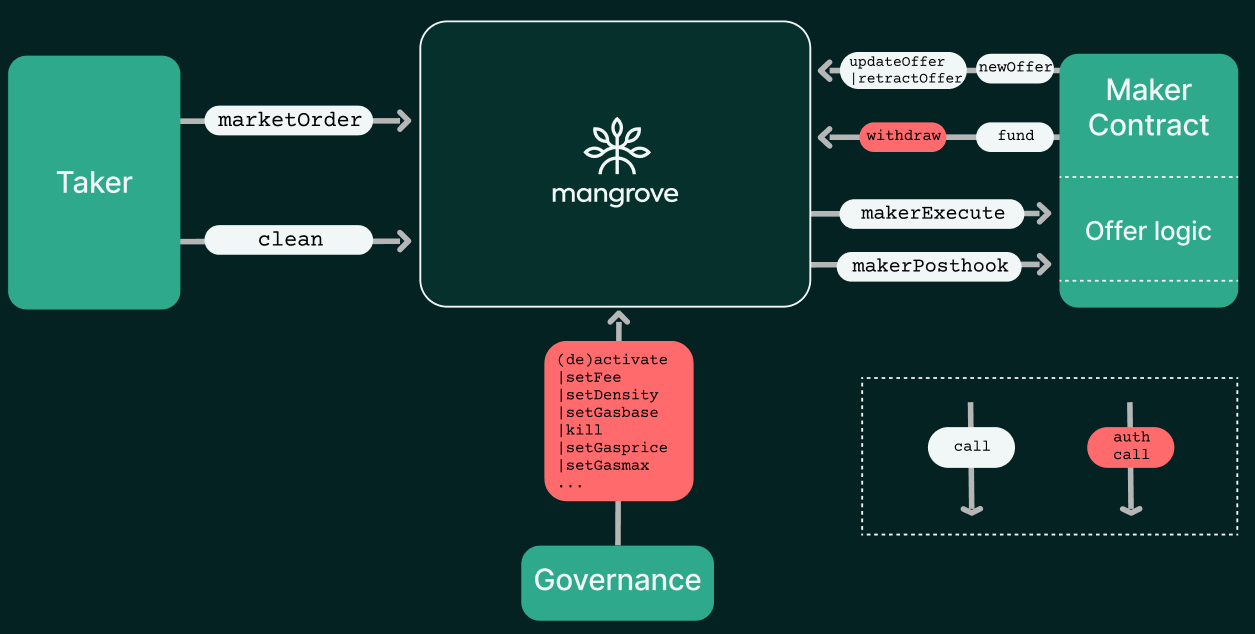
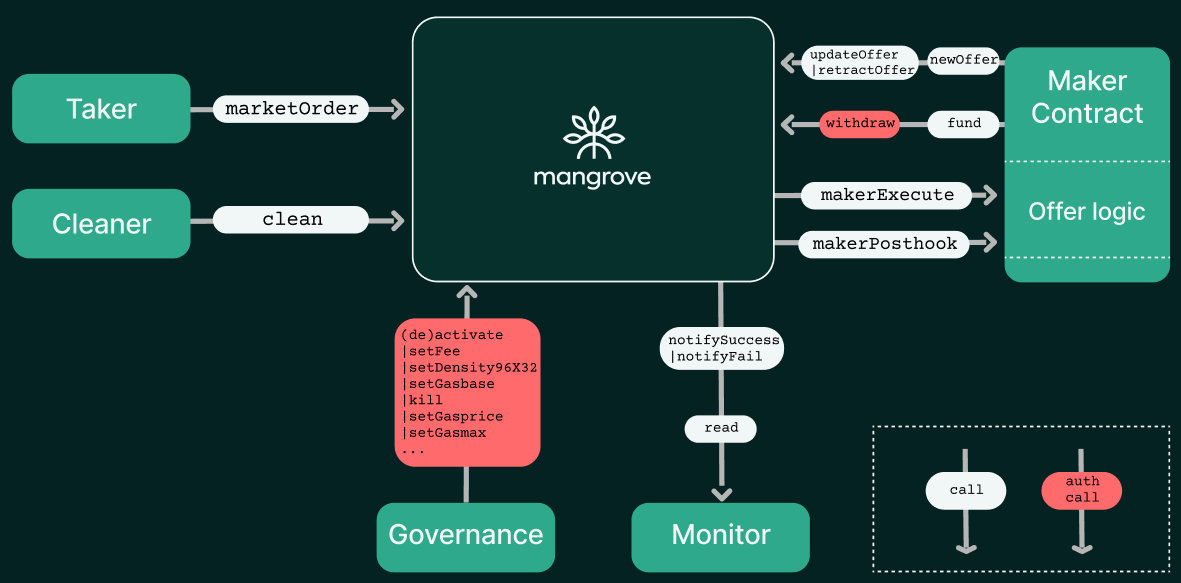
edits of Overview, Offer List and View on Offers

diff --git a/docs/developers/contracts/technical-references/taking-and-making-offers/views-on-offers.md b/docs/developers/contracts/technical-references/taking-and-making-offers/views-on-offers.md
@@ -9,11 +9,11 @@ Mangrove provides a number of getter functions providing views on offers and %%o
 
 ## Public getters
 
-### `best(address outbound, address inbound)`
+### `best(address outbound, address inbound, uint tickSpacing)`
 
 :::info
 
-Returns the offer identifier that occupies the best %%rank|offer-rank%% in the `(outbound, inbound)` %%offer list|offer-list%%.
+Returns the `offerId` of the best offer in the %%offer list|offer-list%%.
 
 :::
 
@@ -30,8 +30,9 @@ import "src/IMangrove.sol";
 IMangrove mgv;
 address outbound_tkn;
 address inbound_tkn;
+uint tickSpacing;
 
-uint best = mgv.best(outbound_tkn, inbound_tkn); 
+uint best = mgv.best(outbound_tkn, inbound_tkn, tickSpacing); 
 ```
 
 </TabItem>
@@ -42,6 +43,7 @@ const { ethers } = require("ethers");
 // context
 let outboundTkn; // address of outbound token ERC20
 let inboundTkn; // address of inbound token ERC20
+let tickSpacing; // number of ticks that should be jumped between available price points
 let MGV_address;
 let MGV_abi; // Mangrove contract's abi
 
@@ -52,13 +54,13 @@ const mgv = new ethers.Contract(
     );
 
 // getting best offer of the (outTkn,inbTk) market
-const best = await mgv.best(outboundTkn, inboundTkn); 
+const best = await mgv.best(outboundTkn, inboundTkn, tickSpacing); 
 ```
 
 </TabItem>
 </Tabs>
 
-### `offers(address, address)` and `offerDetails(address, address, uint)`
+### `offers(address, address, uint, uint )` and `offerDetails(address, address, uint, uint)`
 
 :::info
 
@@ -77,18 +79,19 @@ import {MgvStructs} "src/MgvLib.sol";
 address MGV;
 address outTkn; 
 address inbTkn;
+uint tickSpacing;
 uint offerId; // the id of the offer one wishes to get the data of
 
 // if one wishes to get the totally unpacked data (gas costly!):
 (MgvStructs.OfferUnpacked memory offer, MgvStructs.OfferDetailUnpacked memory offerDetail) = Mangrove(MGV)
-.offerInfo(outTkn,inbTkn,offerId);
+.offerInfo(outTkn, inbTkn, tickSpacing, offerId);
 
 // if one wishes to access a few particular fields, say `wants`, `gives` and `gasreq` parameters of the offer: 
-// 1. getting packed (outTkn, inbTkn) Offer List data
+// 1. getting packed (outTkn, inbTkn, tickSpacing) Offer List data
 MgvStructs.OfferPacked memory offer32 = Mangrove(MGV)
-.offers(outTkn, inbTkn, offerId);
+.offers(outTkn, inbTkn, tickSpacing, offerId);
 MgvStructs.OfferDetailPacked memory offerDetail32 = Mangrove(MGV)
-.offerDetails(outTkn, inbTkn, offerId);
+.offerDetails(outTkn, inbTkn, tickSpacing, offerId);
 
 // for all fields f of OfferUnpacked
 // offer.f == offer32.f()
@@ -105,6 +108,7 @@ const { ethers } = require("ethers");
 // context
 let outTkn; // address of outbound token ERC20
 let inbTkn; // address of inbound token ERC20
+let tickSpacing; // number of ticks that should be jumped between available price points
 let MGV_address; // address of Mangrove
 let MGV_abi; // Mangrove contract's abi
 
@@ -115,7 +119,7 @@ const Mangrove = new ethers.Contract(
     );
 
 // getting offer data in an abi compatible format
-const [offer, offerDetail] = await Mangrove.offerInfo(outTkn,inbTkn,offerId);
+const [offer, offerDetail] = await Mangrove.offerInfo(outTkn, inbTkn, tickSpacing, offerId);
 
 // now one can access any field, say wants, gives and gasprice of the offer:
 const wants = offer.wants;
@@ -126,11 +130,11 @@ const gasreq = offerDetail.gasreq;
 </TabItem>
 </Tabs>
 
-### `isLive(address, address, uint)`
+### `isLive(address, address, uint, uint)`
 
 :::info
 
-An offer is **live** in a given [Offer List](offer-list.md) if it can be matched during a [market order](taker-order/). The view function `isLive` can be used to verify whether `offerId` identifies a **live** offer in a (`outboundToken`,`inboundToken`) offer List of Mangrove.
+An offer is **live** in a given [Offer List](offer-list.md) if it can be matched during a [market order](taker-order/). The view function `isLive` can be used to verify whether `offerId` identifies a **live** offer in a (`outboundToken`,`inboundToken`, `tickSpacing`) offer List of Mangrove.
 
 :::
 
@@ -144,10 +148,11 @@ import "src/IMangrove.sol";
 IMangrove mgv;
 address outTkn;
 address inbTkn;
-address offerId;
+uint tickSpacing;
+uint offerId;
 
 // checking whether offerId is live in the (outTkn, inbTkn) order book.
-bool isLive = mgv.isLive(outTkn,inbTkn,offerId);
+bool isLive = mgv.isLive(outTkn, inbTkn, tickSpacing, offerId);
 ```
 
 </TabItem>
@@ -159,6 +164,7 @@ const { ethers } = require("ethers");
 // context
 let outTkn; // address of outbound token ERC20
 let inbTkn; // address of inbound token ERC20
+let tickSpacing; // number of ticks that should be jumped between available price points
 let offerId; // offer id
 let MGV_address; // address of Mangrove
 let MGV_abi; // Mangrove contract's abi
@@ -170,7 +176,7 @@ const Mangrove = new ethers.Contract(
     );
 
 // checking whether offerId is live on (outTkn, inbTkn) Offer List.
-const isLive = await Mangrove.isLive(outTkn,outTkn,offerId);
+const isLive = await Mangrove.isLive(outTkn, outTkn, tickSpacing, offerId);
 ```
 
 </TabItem>
@@ -188,18 +194,17 @@ Offer data is split between  [`OfferUnpacked`](#mgvlibmgvstructsofferunpacked) a
 
 | Type     | Field   | Comments                                                                   |
 | -------- | ------- | -------------------------------------------------------------------------- |
-| `uint32` | `prev`  | Predecessor offer id (better price)                                        |
-| `uint32` | `next`  | Successor offer id (worst price)                                           |
-| `uint96` | `gives` | What the offer gives (in _wei_ units of base token of the offer's market)  |
-| `uint96` | `wants` | What the offer wants (in _wei_ units of quote token of the offer's market) |
+| `uint` | `prev`  | Predecessor offer id (better price)                                        |
+| `uint` | `next`  | Successor offer id (worst price)                                           |
+| `Tick`   | `tick` | Tick number associated with the offer  |
+| `uint` | `gives` | What the offer gives (in _wei_ units of base token of the offer's market)  |
 
 ### `MgvLib.OfferDetailUnpacked`
 
 | Type      | Field           | Comments                                                                                                                                  |
 | --------- | --------------- | ----------------------------------------------------------------------------------------------------------------------------------------- |
-| `address` | `maker`         | address of the offer's [Maker Contract](reactive-offer/maker-contract.md)                                                                 |
-| `uint24`  | `gasreq`        | Gas required by the offer (in gas units)                                                                                                  |
-| `uint16`  | `gasprice`      | The gas price covered by the offer bounty (in _gwei_ per gas units)                                                                       |
-| `uint24`  | `offer_gasbase` | Mangrove's [gasbase](../governance-parameters/mangrove-configuration.md#local-parameters) at the time the offer was posted (in gas units) |
+| `address` | `maker`         | Address of the offer's [Maker Contract](reactive-offer/maker-contract.md)                                                                 |
+| `uint`  | `gasreq`        | Gas required by the offer (in gas units)                                                                                                  |
+| `uint`  | `kilo_offer_gasbase` | Mangrove's [gasbase](../governance-parameters/mangrove-configuration.md#local-parameters) at the time the offer was posted (in gas units) |
+| `uint`  | `gasprice`      | The gas price covered by the offer bounty (in _gwei_ per gas units)                                                                       |
 
-##

diff --git a/docs/developers/contracts/technical-references/taking-and-making-offers/offer-list.md b/docs/developers/contracts/technical-references/taking-and-making-offers/offer-list.md
@@ -7,25 +7,28 @@ sidebar_position: 1
 
 ## General structure
 
-The offer list is the basic Mangrove data structure. It contains offers (created by offer makers) that promise an **%%outbound|outbound%% token**, and request an **%%inbound|inbound%% token** in return (offer takers execute these offers by providing the **inbound token**, and receive **outbound tokens** in return).
+The offer list is the basic Mangrove data structure. Mangrove holds offer lists for **%%outbound|outbound%% token** (`outbound_tnk`), **%%inbound|inbound%% token** (`inbound_tkn`) pairs with a given **%%tick spacing|tickSpacing%%** (`tickSpacing`).
+Offers are sorted in a tree (the “[tick tree](#tick-tree)") where each available price point (a [bin](#bins-doubly-linked-lists)) holds a doubly linked list of offers. Each offer promises `outbound_tkn` and requests `inbound_tkn`.
 
-For example in a DAI-wETH offer list, DAI is the outbound token (i.e., to be sent by the offer) and wETH the inbound token (i.e., wanted by the offer).
+For example in a DAI-WETH offer list, DAI is the outbound token (i.e., to be sent by the offer) and WETH the inbound token (i.e., wanted by the offer).
 
 :::info Relationship to markets
 
-A full market will always feature two offer lists. For instance, a wETH/DAI **market** has one DAI-wETH offer list (where wETH is requested and DAI is offered), and a wETH-DAI offer list (where DAI is requested and wETH is offered).
+A full market will always feature two offer lists. For instance, a WETH/DAI **market** has one DAI-WETH offer list (where wETH is requested and DAI is offered), and a WETH-DAI offer list (where DAI is requested and WETH is offered).
 
 [Mangrove's SDK ](../../../SDK/README.md) offers Market abstractions that allows liquidity providers and takers to interact with Mangrove using standard trading _base_ and _quote_ denominations.
 
 :::
 
-Here's a sample DAI-wETH offer list with two offers. Only the main characteristics of the offers are shown (see the [offer data structure](reactive-offer/offer-data-structures.md#mgvlib-offer)).
+Here's a sample DAI-WETH offer list with two offers. Only the main characteristics of the offers are shown (see the [offer data structure](reactive-offer/offer-data-structures.md#mgvlib-offer)).
 
 
-| Rank | Offer ID | Wants (wETH) | Gives (DAI) | Gas required | Maker Contract | Offer Gas Price |
-| ---- | -------- | ------------ | ----------- | ------------ | -------------- | --------------- |
-| #1   | 77       | 1            | 2 925.26    | 250,000      | 0x5678def      | 150             |
-| #2   | 42       | 0.3          | 871.764     | 300,000      | 0x1234abc      | 200             |
+|  Tick   | Ratio (WETH/DAI) | Offer ID | Gives (DAI) | Gas required | Maker Contract | Offer Gas Price |
+| ------- | ---------------- | -------- | ----------- | ------------ | -------------- | --------------- |
+| -79815  | 0.0003419        | 77       | 925.26      | 250,000      | 0x5678def      | 150             |
+|         |                  | 177      | 916.47      | 270,000      | 0x9101ghi      | 170             |   
+| -79748  | 0.0003442        | 42       | 871.76      | 300,000      | 0x1234abc      | 200             |
+
 
 :::caution **Decimals**
 
@@ -35,15 +38,25 @@ We display human-readable values in the examples, but Mangrove stores raw token 
 
 ## Some terminology
 
-### Offer rank
+### Tick tree
 
-Offers are ordered from best to worst. Offers are compared based on _price_, and subsequently ranked based on delivering more volume per [_gas required_](#gas-required), if they have the same price.
+Offers are stored in a tree we call a “tick tree”. Thanks to this tree structure, offer operations (insert, update, and retract) take constant time (the height of the tree is fixed).
 
-:::info **Example**
+### Bins (doubly linked lists)
 
-The price of the offer with ID 42 is ~0.0003441298 wETH per DAI while the price of offer with ID 77 is ~0.00034185 wETH per DAI. The offer with ID 77 is therefore the best offer (lowest price) of this offer list, and is ranked first.
+Below the bottom of the tree are bins.
 
+import useBaseUrl from '@docusaurus/useBaseUrl';
+
+<div class="text--center">
+<img src={useBaseUrl('/img/assets/bin.png')} width="60%"/>
+</div>
+
+:::caution **Note**
+All offers in a bin have the same tick. During a market order, offers in a bin are executed in order, from the first to the last. Inserted offers are always appended at the end of a bin.
 :::
+
+Bins are laid in sequence. In the context of an offer list, each bin has an associated tick (and a tick determines a price). If a bin has tick `t`, the following bin has tick `t+tickSpacing`.
 
 ### Offer ID
 
@@ -51,18 +64,22 @@ The identifier of the offer in the offer list.
 
 :::danger **Important**
 
-Two offers may have the same ID as long as they belong to different offer lists. For instance, there may be an offer with ID 42 on the wETH-DAI offer list with different volumes, gas required, maker contract, etc., than the offer with ID 42 in the DAI-wETH offer list shown above.
+Two offers may have the same ID as long as they belong to different offer lists. For instance, there may be an offer with ID 42 on the WETH-DAI offer list with different volumes, gas required, maker contract, etc., than the offer with ID 42 in the DAI-WETH offer list shown above.
 
 :::
 
-### Wants, gives and entailed price
+### Gives, ratio and entailed price
 
-Taken together, the **wants** and **gives** values define 1) a max volume, 2) a price. The **entailed price** `p` is `p = wants/gives`, and an offer promises delivery of up to **gives** %%outbound|outbound%% tokens at a price of `p` tokens delivered per %%inbound|inbound%% token received.
+Taken together, the **gives** and **ratio** values define 1) a max volume, 2) a price. The **entailed price** `p` is `p = ratio`:
+* An offer promises to deliver up to **gives** %%outbound|outbound%% tokens at a price of `p` tokens delivered per %%inbound|inbound%% token received.
+* How much an offer wants can be simply calculated by multiplying the Gives by the ratio (ex: `offer ID 77 wants = 925.26 * 0.0003419 = 0.316 WETH`).
 
 :::info **Examples**
 
-* The offer with ID 42 _wants_ 0.3 wETH to deliver its promised 871.764 DAI.
-* If the offer with ID 77 is executed and receives 0.5 wETH, it _gives_ 1462.63 DAI.
+Based on the above table:
+* The offer with ID 77 promises 925.26 DAI at a ratio of 0.0003419, i.e. it wants `925.26 * 0.0003419 = 0.316` WETH.
+* The offer with ID 177 is part of the same bin as offer 77, hence has a similar tick and ratio. It promises 916.47 DAI at a ratio of 0.0003419, i.e. it wants `916.47 * 0.0003419 = 0.313` WETH.
+* The offer with ID 42 is in a different bin, and has a different tick and ratio. It promises 871.76 DAI at a ratio of 0.0003442, i.e. it wants `871.76 * 0.0003442 = 0.300` WETH.
 
 :::
 

diff --git a/docs/developers/contracts/technical-references/overview.md b/docs/developers/contracts/technical-references/overview.md
@@ -16,11 +16,13 @@ The Mangrove contract is depicted in the middle, with the three most important a
     
 * [Takers](#takers) use Mangrove to [find liquidity](../background/offer-taker.md) by executing offers published on Mangrove.
 
+* Cleaners can target offers that would likely fail individually to [clean](../../keeper-bots/guides/use-mgvcleaner-to-clean-offers) them, i.e. remove them from the book in exchange for a bounty.
+
 * [Governance](#governance) adjusts Mangrove [parameters](./governance-parameters/README.md) such as setting fees or opening and closing markets.
 
 ## Takers
 
-As a taker on Mangrove you take offers published by makers as liquidity promises. Offers can be taken using general [market orders](taking-and-making-offers/taker-order/README.md#market-order) or [clean](../../keeper-bots/guides/use-mgvcleaner-to-clean-offers) them individually.
+As a taker on Mangrove you take offers published by makers as liquidity promises. Offers are taken using general [market orders](taking-and-making-offers/taker-order/README.md#market-order).
 
 Takers may typically operate via a web front-end or with the help of the TypeScript [SDK](../../SDK/README.md) for developing off-chain apps to interact with Mangrove ecosystem.
 

diff --git a/docs/developers/terms/tickSpacing.md b/docs/developers/terms/tickSpacing.md
@@ -1,0 +1,9 @@
+---
+id: tickSpacing
+title: tickSpacing
+hoverText: Controls the granularity of available price points in an offer list.
+---
+
+The granularity of available price points in an [offer list](../contracts/technical-references/taking-and-making-offers/offer-list.md) is controlled by the `tickSpacing` parameter. With a high `tickSpacing`, fewer price points are available, but the gas cost of market orders is lower since a smaller part of the tick tree has to be explored.
+
+The available prices in an offer list are `1.0001^i` for all `MIN_TICK <= i <= MAX_TICK` such that `i % tickSpacing = 0`.
